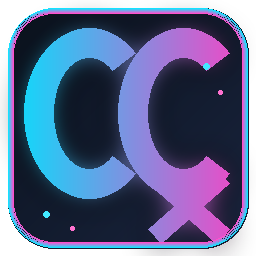
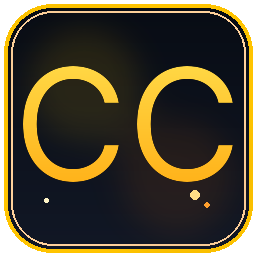
Add a standalone yellow HUD settings screen and animated preview
Give Chicken Client a yellow brand palette, add an F8 vanilla-Minecraft
settings screen that edits the standalone NanoVG config without Meteor, and
include an animated GIF design preview of the HUD and settings card.

🤖 Generated with Codebuff

diff --git a/src/main/java/com/example/addon/hud/NanoHudScreen.java b/src/main/java/com/example/addon/hud/NanoHudScreen.java
@@ -1,0 +1,244 @@
+package com.example.addon.hud;
+
+import net.minecraft.client.gui.GuiGraphics;
+import net.minecraft.client.gui.screens.Screen;
+import net.minecraft.client.input.MouseButtonEvent;
+import net.minecraft.network.chat.Component;
+
+/**
+ * Vanilla-Minecraft settings screen for the standalone HUD.
+ *
+ * <p>No Meteor widget, setting or screen class is used here. The screen edits
+ * {@link NanoHudConfig} directly and saves it to the HUD's own properties file.</p>
+ */
+public final class NanoHudScreen extends Screen {
+    private static final int PANEL_WIDTH = 372;
+    private static final int PANEL_HEIGHT = 266;
+
+    private static final int YELLOW = 0xFFFFC400;
+    private static final int YELLOW_SOFT = 0xFFFFE082;
+    private static final int AMBER = 0xFFFF8A00;
+    private static final int TEXT = 0xFFF5F7FA;
+    private static final int MUTED = 0xFF9AA6B2;
+    private static final int CARD = 0xF0141820;
+    private static final int CARD_LIGHT = 0xFF1C222D;
+    private static final int TRACK = 0xFF2A303A;
+
+    private int slider;
+    private boolean dirty;
+
+    public NanoHudScreen() {
+        super(Component.literal("Chicken Client HUD"));
+    }
+
+    @Override
+    public void render(GuiGraphics context, int mouseX, int mouseY, float delta) {
+        NanoHudConfig hud = NanoHudConfig.get();
+        int x = (width - PANEL_WIDTH) / 2;
+        int y = (height - PANEL_HEIGHT) / 2;
+
+        context.fill(0, 0, width, height, 0xB8000000);
+
+        // Yellow halo and card.
+        context.fill(x - 2, y - 2, x + PANEL_WIDTH + 2, y + PANEL_HEIGHT + 2, 0x55FFC400);
+        context.fill(x, y, x + PANEL_WIDTH, y + PANEL_HEIGHT, CARD);
+        context.fillGradient(x, y, x + PANEL_WIDTH, y + 3, YELLOW, AMBER);
+        context.fill(x + 1, y + 3, x + PANEL_WIDTH - 1, y + 5, 0xFF3A2A00);
+
+        context.drawString(font, "CHICKEN CLIENT", x + 18, y + 16, YELLOW, false);
+        context.drawString(font, "HUD SETTINGS  //  STANDALONE NANO HUD", x + 18, y + 28, MUTED, false);
+        context.drawString(font, "F8", x + PANEL_WIDTH - 30, y + 16, YELLOW_SOFT, false);
+
+        int rowY = y + 52;
+        toggle(context, "Watermark", hud.showWatermark, x + 18, rowY, mouseX, mouseY);
+        toggle(context, "Player card", hud.showPlayer, x + 18, rowY + 25, mouseX, mouseY);
+        toggle(context, "Stats & coordinates", hud.showStats, x + 18, rowY + 50, mouseX, mouseY);
+        toggle(context, "Animations", hud.animations, x + 18, rowY + 75, mouseX, mouseY);
+
+        slider(context, "Scale", hud.scale, 0.6, 2.5, x + 18, rowY + 108, 1, mouseX, mouseY, true);
+        slider(context, "Background", hud.backgroundAlpha / 255.0, 0.2, 1.0, x + 18, rowY + 138, 2, mouseX, mouseY, false);
+
+        context.drawString(font, "BRAND COLOR", x + 18, rowY + 168, MUTED, false);
+        preset(context, "YELLOW", x + 18, rowY + 180, mouseX, mouseY, true);
+        preset(context, "HONEY", x + 88, rowY + 180, mouseX, mouseY, false);
+        preset(context, "EMBER", x + 158, rowY + 180, mouseX, mouseY, false);
+
+        button(context, "RESET POSITION", x + 228, rowY + 180, 126, 20, mouseX, mouseY);
+        button(context, "DONE", x + PANEL_WIDTH - 78, y + PANEL_HEIGHT - 28, 60, 18, mouseX, mouseY);
+
+        context.drawString(font, "Drag the panel with RSHIFT in game.  [ ] scales it.  F7 hides it.",
+            x + 18, y + PANEL_HEIGHT - 22, 0xFF7F8A96, false);
+    }
+
+    private void toggle(GuiGraphics context, String label, boolean value, int x, int y, int mouseX, int mouseY) {
+        boolean hovered = inside(mouseX, mouseY, x, y, 260, 18);
+        context.drawString(font, label, x, y + 3, hovered ? TEXT : 0xFFD5DCE5, false);
+
+        int tx = x + 286;
+        int ty = y + 2;
+        context.fill(tx, ty, tx + 32, ty + 14, value ? 0xFFFFC400 : TRACK);
+        context.fill(tx + (value ? 18 : 2), ty + 2, tx + (value ? 30 : 14), ty + 12, value ? 0xFF17130A : 0xFFD5DCE5);
+    }
+
+    private void slider(GuiGraphics context, String label, double value, double min, double max,
+                        int x, int y, int id, int mouseX, int mouseY, boolean scale) {
+        context.drawString(font, label, x, y, 0xFFD5DCE5, false);
+        String shown = scale
+            ? String.format(java.util.Locale.ROOT, "%.2fx", value)
+            : Math.round(value * 100.0) + "%";
+        context.drawString(font, shown, x + 286, y, YELLOW_SOFT, false);
+
+        int tx = x + 110;
+        int ty = y + 11;
+        int tw = 184;
+        int knob = tx + (int) Math.round((value - min) / (max - min) * tw);
+        context.fill(tx, ty, tx + tw, ty + 3, TRACK);
+        context.fill(tx, ty, Math.max(tx + 2, knob), ty + 3, YELLOW);
+        context.fill(knob - 3, ty - 3, knob + 3, ty + 6, slider == id ? YELLOW_SOFT : YELLOW);
+    }
+
+    private void preset(GuiGraphics context, String label, int x, int y, int mouseX, int mouseY, boolean selected) {
+        boolean hovered = inside(mouseX, mouseY, x, y, 64, 20);
+        context.fill(x, y, x + 64, y + 20, selected ? 0xFFFFC400 : (hovered ? CARD_LIGHT : 0xFF202630));
+        int color = selected ? 0xFF17130A : 0xFFD5DCE5;
+        context.drawCenteredString(font, label, x + 32, y + 6, color);
+    }
+
+    private void button(GuiGraphics context, String label, int x, int y, int w, int h, int mouseX, int mouseY) {
+        boolean hovered = inside(mouseX, mouseY, x, y, w, h);
+        context.fill(x, y, x + w, y + h, hovered ? 0xFFFFC400 : 0xFF202630);
+        context.drawCenteredString(font, label, x + w / 2, y + (h - 8) / 2 + 1, hovered ? 0xFF17130A : 0xFFD5DCE5);
+    }
+
+    @Override
+    public boolean mouseClicked(MouseButtonEvent event, boolean doubleClick) {
+        double mouseX = event.x();
+        double mouseY = event.y();
+        if (event.button() != 0) return super.mouseClicked(event, doubleClick);
+
+        NanoHudConfig hud = NanoHudConfig.get();
+        int x = (width - PANEL_WIDTH) / 2;
+        int y = (height - PANEL_HEIGHT) / 2;
+        int rowY = y + 52;
+
+        if (inside(mouseX, mouseY, x + 286, rowY, 32, 18)) {
+            hud.showWatermark = !hud.showWatermark;
+            markDirty(hud);
+            return true;
+        }
+        if (inside(mouseX, mouseY, x + 286, rowY + 25, 32, 18)) {
+            hud.showPlayer = !hud.showPlayer;
+            markDirty(hud);
+            return true;
+        }
+        if (inside(mouseX, mouseY, x + 286, rowY + 50, 32, 18)) {
+            hud.showStats = !hud.showStats;
+            markDirty(hud);
+            return true;
+        }
+        if (inside(mouseX, mouseY, x + 286, rowY + 75, 32, 18)) {
+            hud.animations = !hud.animations;
+            markDirty(hud);
+            return true;
+        }
+
+        if (inside(mouseX, mouseY, x + 110, rowY + 116, 184, 18)) {
+            slider = 1;
+            updateScale(hud, mouseX, x + 110, 184);
+            return true;
+        }
+        if (inside(mouseX, mouseY, x + 110, rowY + 146, 184, 18)) {
+            slider = 2;
+            updateAlpha(hud, mouseX, x + 110, 184);
+            return true;
+        }
+
+        if (inside(mouseX, mouseY, x + 18, rowY + 180, 64, 20)) {
+            setPreset(hud, 0xFFFFC400, 0xFFFF8A00, 0xFFFFE082);
+            return true;
+        }
+        if (inside(mouseX, mouseY, x + 88, rowY + 180, 64, 20)) {
+            setPreset(hud, 0xFFFFB300, 0xFFFF7A00, 0xFFFFE0A0);
+            return true;
+        }
+        if (inside(mouseX, mouseY, x + 158, rowY + 180, 64, 20)) {
+            setPreset(hud, 0xFFFF6A00, 0xFFD42A00, 0xFFFFC400);
+            return true;
+        }
+
+        if (inside(mouseX, mouseY, x + 228, rowY + 180, 126, 20)) {
+            hud.x = 10;
+            hud.y = 10;
+            markDirty(hud);
+            return true;
+        }
+
+        if (inside(mouseX, mouseY, x + PANEL_WIDTH - 78, y + PANEL_HEIGHT - 28, 60, 18)) {
+            onClose();
+            return true;
+        }
+
+        return super.mouseClicked(event, doubleClick);
+    }
+
+    @Override
+    public boolean mouseDragged(MouseButtonEvent event, double dragX, double dragY) {
+        if (slider == 1 || slider == 2) {
+            NanoHudConfig hud = NanoHudConfig.get();
+            int x = (width - PANEL_WIDTH) / 2;
+            if (slider == 1) updateScale(hud, event.x(), x + 110, 184);
+            else updateAlpha(hud, event.x(), x + 110, 184);
+            return true;
+        }
+        return super.mouseDragged(event, dragX, dragY);
+    }
+
+    @Override
+    public boolean mouseReleased(MouseButtonEvent event) {
+        if (slider != 0) {
+            slider = 0;
+            NanoHudConfig.get().save();
+            return true;
+        }
+        return super.mouseReleased(event);
+    }
+
+    private void updateScale(NanoHudConfig hud, double mouseX, int trackX, int trackWidth) {
+        double t = Math.max(0.0, Math.min(1.0, (mouseX - trackX) / trackWidth));
+        hud.scale = 0.6 + t * 1.9;
+        markDirty(hud);
+    }
+
+    private void updateAlpha(NanoHudConfig hud, double mouseX, int trackX, int trackWidth) {
+        double t = Math.max(0.0, Math.min(1.0, (mouseX - trackX) / trackWidth));
+        hud.backgroundAlpha = (int) Math.round((0.2 + t * 0.8) * 255.0);
+        markDirty(hud);
+    }
+
+    private void setPreset(NanoHudConfig hud, int primary, int secondary, int accent) {
+        hud.primary = primary;
+        hud.secondary = secondary;
+        hud.accent = accent;
+        markDirty(hud);
+    }
+
+    private void markDirty(NanoHudConfig hud) {
+        dirty = true;
+        hud.save();
+    }
+
+    private static boolean inside(double mouseX, double mouseY, int x, int y, int width, int height) {
+        return mouseX >= x && mouseX < x + width && mouseY >= y && mouseY < y + height;
+    }
+
+    @Override
+    public void onClose() {
+        if (dirty) NanoHudConfig.get().save();
+        super.onClose();
+    }
+
+    @Override
+    public boolean isPauseScreen() {
+        return false;
+    }
+}

diff --git a/src/main/java/com/example/addon/hud/NanoHudConfig.java b/src/main/java/com/example/addon/hud/NanoHudConfig.java
@@ -31,6 +31,7 @@ public final class NanoHudConfig {
     public double scale = 1.0;
     public int editorKey = GLFW.GLFW_KEY_RIGHT_SHIFT;
     public int toggleKey = GLFW.GLFW_KEY_F7;
+    public int settingsKey = GLFW.GLFW_KEY_F8;
     public int backgroundAlpha = 205;
 
     public boolean showPlayer = true;
@@ -38,9 +39,10 @@ public final class NanoHudConfig {
     public boolean showStats = true;
     public boolean animations = true;
 
-    public int primary = 0x00DCFF;
-    public int secondary = 0xFF375F;
-    public int accent = 0xFFC440;
+    // Chicken Client's main brand color is yellow.
+    public int primary = 0xFFC400;
+    public int secondary = 0xFF8A00;
+    public int accent = 0xFFF3D0;
 
     public final long openedAt = System.currentTimeMillis();
 
@@ -123,6 +125,7 @@ public final class NanoHudConfig {
         scale = decimal(properties, "scale", scale);
         editorKey = integer(properties, "editor-key", editorKey);
         toggleKey = integer(properties, "toggle-key", toggleKey);
+        settingsKey = integer(properties, "settings-key", settingsKey);
         backgroundAlpha = integer(properties, "background-alpha", backgroundAlpha);
         showPlayer = bool(properties, "show-player", showPlayer);
         showWatermark = bool(properties, "show-watermark", showWatermark);
@@ -131,6 +134,15 @@ public final class NanoHudConfig {
         primary = color(properties, "primary", primary);
         secondary = color(properties, "secondary", secondary);
         accent = color(properties, "accent", accent);
+
+        // Migrate the old cyan/pink defaults so existing installs pick up the
+        // yellow Chicken Client brand color automatically.
+        if (primary == 0x00DCFF && secondary == 0xFF375F) {
+            primary = 0xFFC400;
+            secondary = 0xFF8A00;
+            accent = 0xFFF3D0;
+            save();
+        }
     }
 
     public void save() {
@@ -141,6 +153,7 @@ public final class NanoHudConfig {
         properties.setProperty("scale", Double.toString(scale));
         properties.setProperty("editor-key", Integer.toString(editorKey));
         properties.setProperty("toggle-key", Integer.toString(toggleKey));
+        properties.setProperty("settings-key", Integer.toString(settingsKey));
         properties.setProperty("background-alpha", Integer.toString(backgroundAlpha));
         properties.setProperty("show-player", Boolean.toString(showPlayer));
         properties.setProperty("show-watermark", Boolean.toString(showWatermark));

diff --git a/src/main/java/com/example/addon/hud/NanoHudRenderer.java b/src/main/java/com/example/addon/hud/NanoHudRenderer.java
@@ -85,6 +85,7 @@ public final class NanoHudRenderer {
     private static double dragOffsetX;
     private static double dragOffsetY;
     private static boolean toggleHeld;
+    private static boolean settingsHeld;
     private static boolean scaleDownHeld;
     private static boolean scaleUpHeld;
 
@@ -98,6 +99,12 @@ public final class NanoHudRenderer {
         boolean toggle = keyDown(mc, hud.toggleKey);
         if (toggle && !toggleHeld) hud.toggle();
         toggleHeld = toggle;
+
+        boolean settings = keyDown(mc, hud.settingsKey);
+        if (settings && !settingsHeld && !(mc.screen instanceof NanoHudScreen)) {
+            mc.execute(() -> mc.setScreen(new NanoHudScreen()));
+        }
+        settingsHeld = settings;
 
         if (!hud.enabled) return;
         if (mc.level == null || mc.player == null || mc.getWindow().isIconified()) return;
@@ -400,8 +407,8 @@ public final class NanoHudRenderer {
         line(PANEL_WIDTH - p - len, PANEL_HEIGHT - p, PANEL_WIDTH - p, PANEL_HEIGHT - p, 2.0f, argb(primary, 235));
         line(PANEL_WIDTH - p, PANEL_HEIGHT - p - len, PANEL_WIDTH - p, PANEL_HEIGHT - p, 2.0f, argb(primary, 235));
 
-        fillRound(14.0f, PANEL_HEIGHT - 30.0f, 174.0f, 14.0f, 7.0f, argb(0, 0, 0, 170));
-        text("RSHIFT + DRAG  •  [ ] SCALE  •  F7 HIDE", 20.0f, PANEL_HEIGHT - 27.0f, 6.2f, argb(230, 240, 255, 220));
+        fillRound(14.0f, PANEL_HEIGHT - 30.0f, 234.0f, 14.0f, 7.0f, argb(0, 0, 0, 170));
+        text("RSHIFT + DRAG  •  [ ] SCALE  •  F7 HIDE  •  F8 SETTINGS", 20.0f, PANEL_HEIGHT - 27.0f, 6.2f, argb(230, 240, 255, 220));
     }
 
     private static void bar(float x, float y, float width, float height, float fill,

diff --git a/src/main/java/com/example/addon/modules/CosmicSky.java b/src/main/java/com/example/addon/modules/CosmicSky.java
@@ -89,19 +89,19 @@ public class CosmicSky extends Module {
 
     private final Setting<SettingColor> primary = sgLook.add(new ColorSetting.Builder()
         .name("primary")
-        .defaultValue(new SettingColor(95, 150, 255))
+        .defaultValue(new SettingColor(255, 196, 0))
         .build()
     );
 
     private final Setting<SettingColor> secondary = sgLook.add(new ColorSetting.Builder()
         .name("secondary")
-        .defaultValue(new SettingColor(255, 75, 150))
+        .defaultValue(new SettingColor(255, 138, 0))
         .build()
     );
 
     private final Setting<SettingColor> auroraColor = sgLook.add(new ColorSetting.Builder()
         .name("aurora-color")
-        .defaultValue(new SettingColor(80, 255, 190))
+        .defaultValue(new SettingColor(255, 220, 70))
         .build()
     );
 

diff --git a/src/main/java/com/example/addon/modules/RedWings.java b/src/main/java/com/example/addon/modules/RedWings.java
@@ -94,7 +94,7 @@ public class RedWings extends Module {
 
     private final Setting<SettingColor> secondary = sgLook.add(new ColorSetting.Builder()
         .name("secondary")
-        .defaultValue(new SettingColor(255, 160, 60))
+        .defaultValue(new SettingColor(255, 196, 0))
         .build()
     );
 

diff --git a/README.md b/README.md
@@ -1,5 +1,9 @@
 # Chicken Client
 
+![Animated HUD preview](artifacts/chicken-hud-preview.gif)
+
+Animated design preview of the yellow NanoVG HUD and the in-game settings card.
+
 Chicken Client is a Meteor Client addon for Minecraft 1.21.11.
 
 ## Included
@@ -10,9 +14,9 @@ Chicken Client is a Meteor Client addon for Minecraft 1.21.11.
 - **Free Look** - independent camera look with an optional through-walls mode.
 - **Block ESP** - configurable block scanner with boxes and tracers.
 - **Storage ESP** - container detection with block-entity debug and chunk data readouts.
-- **Nano HUD** - a fully standalone NanoVG HUD with its own config, mixin, GL frame, font and native libraries. It does not depend on Meteor's HUD, settings, modules or 2D renderer. It has an animated cloud watermark, player card, health/armor/XP bars, ping/FPS/speed counters, coordinates and an editor overlay. F7 toggles it; hold right-shift, drag with the left mouse button and use `[`/`]` to scale. Config: `config/chicken-client/nano-hud.properties`.
+- **Nano HUD** - a fully standalone NanoVG HUD with its own config, mixin, GL frame, font and native libraries. It does not depend on Meteor's HUD, settings, modules or 2D renderer. It has an animated cloud watermark, player card, health/armor/XP bars, ping/FPS/speed counters, coordinates and an editor overlay. F7 toggles it; F8 opens the Meteor-free in-game settings screen; hold right-shift, drag with the left mouse button and use `[`/`]` to scale. The main brand color is yellow. Config: `config/chicken-client/nano-hud.properties`.
 - **Red Wings** - layered animated crimson wings for yourself and nearby players, with glow, feather ribs and ember trails.
-- **Cosmic Sky** - a cinematic 3D atmosphere with ringed planets, aurora ribbons, twinkling stars and shooting stars.
+- **Cosmic Sky** - a cinematic 3D atmosphere with ringed planets, aurora ribbons, twinkling stars and shooting stars, using the yellow Chicken Client palette by default.
 - ClusterBypass, BaseFinder, PlayerFinder, SpawnerFlag, ClearRender and Storage ESP utilities.
 
 ## Build
